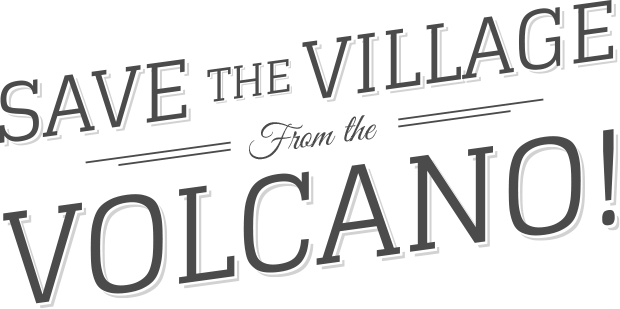
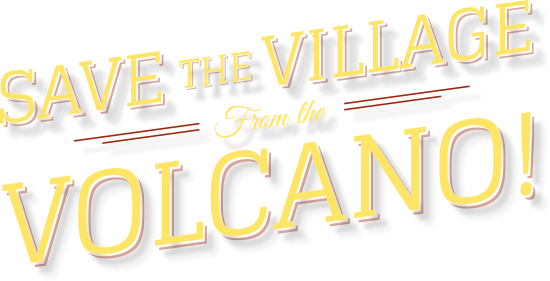
new design

diff --git a/src/less/style.less b/src/less/style.less
@@ -1,55 +1,115 @@
-@verticalMargin: 16px;
-@gutter: 8px;
-@linkColor: darken(rgb(124, 170, 241), 25%);
+@headerTextSize: 2em;
+@headerTextSize2: 1.33em;
 
-body {
-  font-size: 21px;
-  background: rgb(239, 226, 183);
-  font-family: 'Open Sans', 'sans-serif';
-  line-height: 1.2em;
+@text-color: rgb(65, 43, 21);
+@active-color: rgb(209, 108, 0);
+
+@divider-color: rgb(70, 139, 27);
+@text-accent-1: rgb(214, 56, 23);
+@text-accent-2: rgb(65, 93, 20);
+@text-accent-3: rgb(201, 114, 1);
+@text-accent-4: rgb(133, 42, 108);
+
+@footer-image-height: 357px;
+
+html, body, section {
+  height: 100%;
 }
 
-section {
-  max-width: 960px;
-  margin: 12% auto;
+body {
+  font-size: 20px;
+  font-family: 'Glegoo', serif;
+  line-height: 1.2em;
   text-align: center;
-  padding: 0 4%;
+}
+
+a {
+  text-decoration: none;
+  color: @text-color;
 }
 
 header {
-  background: #fff;
-  padding: 16px 32px;
+  position: fixed;
+  top: 0;
+  margin: 5% 0;
+  width: 100%;
 
-  h1 {
-    float: left;
-  }
-
-  nav {
-    float: right;
-  }
-
-  &:after {
-    content: "";
-    display: table;
-    clear: both;
+  a {
+    padding: 0 16px;
   }
 }
 
-img {
-  max-width: 100%;
+footer {
+  position: fixed;
+  bottom: 0;
+  width: 100%;
+  height: @footer-image-height + 29px;
+  background: url('../images/footer.png');
+  background-position: top center;
+  padding-top: 32px;
+
+  #down-button {
+   display: inline-block;
+   margin: 74px 0;
+  }
+
+  p {
+    font-size: 0.666em;
+    background: rgb(50, 33, 16);
+    padding: 8px 0;
+  }
 }
 
-#logo, #v {
-  float: left;
+section {
+  padding: 136px 0;
 }
 
-#logo {
-  width: 33%;
+#main {
+  background: rgba(250,209,60,1);
+  background: -moz-linear-gradient(top, rgba(250,209,60,1) 0%, rgba(189,106,22,1) 100%);
+  background: -webkit-gradient(left top, left bottom, color-stop(0%, rgba(250,209,60,1)), color-stop(100%, rgba(189,106,22,1)));
+  background: -webkit-linear-gradient(top, rgba(250,209,60,1) 0%, rgba(189,106,22,1) 100%);
+  background: -o-linear-gradient(top, rgba(250,209,60,1) 0%, rgba(189,106,22,1) 100%);
+  background: -ms-linear-gradient(top, rgba(250,209,60,1) 0%, rgba(189,106,22,1) 100%);
+  background: linear-gradient(to bottom, rgba(250,209,60,1) 0%, rgba(189,106,22,1) 100%);
+  filter: progid:DXImageTransform.Microsoft.gradient( startColorstr='#fad13c', endColorstr='#bd6a16', GradientType=0 );
 }
 
-#v {
-  width: 66%;
+#save {
+  background: rgba(219,55,27,1);
+  background: -moz-linear-gradient(top, rgba(219,55,27,1) 0%, rgba(125,0,4,1) 100%);
+  background: -webkit-gradient(left top, left bottom, color-stop(0%, rgba(219,55,27,1)), color-stop(100%, rgba(125,0,4,1)));
+  background: -webkit-linear-gradient(top, rgba(219,55,27,1) 0%, rgba(125,0,4,1) 100%);
+  background: -o-linear-gradient(top, rgba(219,55,27,1) 0%, rgba(125,0,4,1) 100%);
+  background: -ms-linear-gradient(top, rgba(219,55,27,1) 0%, rgba(125,0,4,1) 100%);
+  background: linear-gradient(to bottom, rgba(219,55,27,1) 0%, rgba(125,0,4,1) 100%);
+  filter: progid:DXImageTransform.Microsoft.gradient( startColorstr='#db371b', endColorstr='#7d0004', GradientType=0 );
 }
+
+#about {
+  background: rgba(170,227,218,1);
+  background: -moz-linear-gradient(top, rgba(170,227,218,1) 0%, rgba(110,194,179,1) 100%);
+  background: -webkit-gradient(left top, left bottom, color-stop(0%, rgba(170,227,218,1)), color-stop(100%, rgba(110,194,179,1)));
+  background: -webkit-linear-gradient(top, rgba(170,227,218,1) 0%, rgba(110,194,179,1) 100%);
+  background: -o-linear-gradient(top, rgba(170,227,218,1) 0%, rgba(110,194,179,1) 100%);
+  background: -ms-linear-gradient(top, rgba(170,227,218,1) 0%, rgba(110,194,179,1) 100%);
+  background: linear-gradient(to bottom, rgba(170,227,218,1) 0%, rgba(110,194,179,1) 100%);
+  filter: progid:DXImageTransform.Microsoft.gradient( startColorstr='#aae3da', endColorstr='#6ec2b3', GradientType=0 );
+}
+
+
+
+
+
+h1 {
+  font-family: 'Abril Fatface', cursive;
+  font-size: 2em;
+}
+
+
+
+
+
 
 /* http://css-tricks.com/NetMag/FluidWidthVideo/Article-FluidWidthVideo.php */
 .video-container {

diff --git a/src/index.html b/src/index.html
@@ -4,35 +4,49 @@
   <meta charset="utf-8">
   <meta name="viewport" content="width=device-width, minimum-scale=1.0, maximum-scale=1.0">
 
-  <title>Oh No Volcano</title>
+  <title>OH NO Volcano!</title>
+
   <link rel="stylesheet" href="css/style.css">
+  <link href='http://fonts.googleapis.com/css?family=Glegoo|Abril+Fatface' rel='stylesheet' type='text/css'>
 </head>
 
 <body>
 
   <header>
-
-    <h1>Coming soon to the App Store!</h1>
-
     <nav>
-      <a href="#">Facebook</a> &#183; <a href="#">Twitter</a> &#183; <a href="press.html">Presskit</a> &#183; <a href="mailto:info@ohnovolcano.com">Contact</a>
+      <a href="#main">OH NO Volcano!</a> |
+      <a href="#about">The Game</a> |
+      <a href="#loot">Loot</a> |
+      <a href="#media">Media</a> |
+      <a href="#download">Get it Now!</a>
     </nav>
   </header>
 
-  <section>
-    <img src="images/save.png" alt="Oh No Volcano Logo" />
+  <section id="main">
+    <img src="images/logo-banner.png" alt="OH NO Volcano!" />
   </section>
 
-  <section>
-      <div class="video-container">
-        <iframe src="http://player.vimeo.com/video/92382657" width="1136" height="640" frameborder="0"></iframe>
-      </div>
+  <section id="save">
+    <img src="images/save.png" alt="Save the village from the volcano!" />
   </section>
 
-  <section>
-      <img src="images/logo-centered.png" alt="Oh No Volcano Logo" /><br/>
-      <img src="images/Download_on_the_App_Store_Badge_US-UK_135x40.png" />
+  <section id="about">
   </section>
+
+  <footer>
+
+    <a href="#" id="down-button"><img src="images/scroll-indicator.png" alt="scroll indicator" /></a>
+
+    <nav>
+      <a href="#"><img src="images/icon-fb.png" alt="facebook icon" /></a>
+      <a href="#"><img src="images/icon-app-store.png" alt="App Store icon" /></a>
+      <a href="#"><img src="images/icon-twitter.png" alt="Twitter icon" /></a>
+    </nav>
+
+    <p>&copy;2014 OH NO Volcano! All Rights Reserved</p>
+
+  </footer>
+
 
 </body>
 </html>
